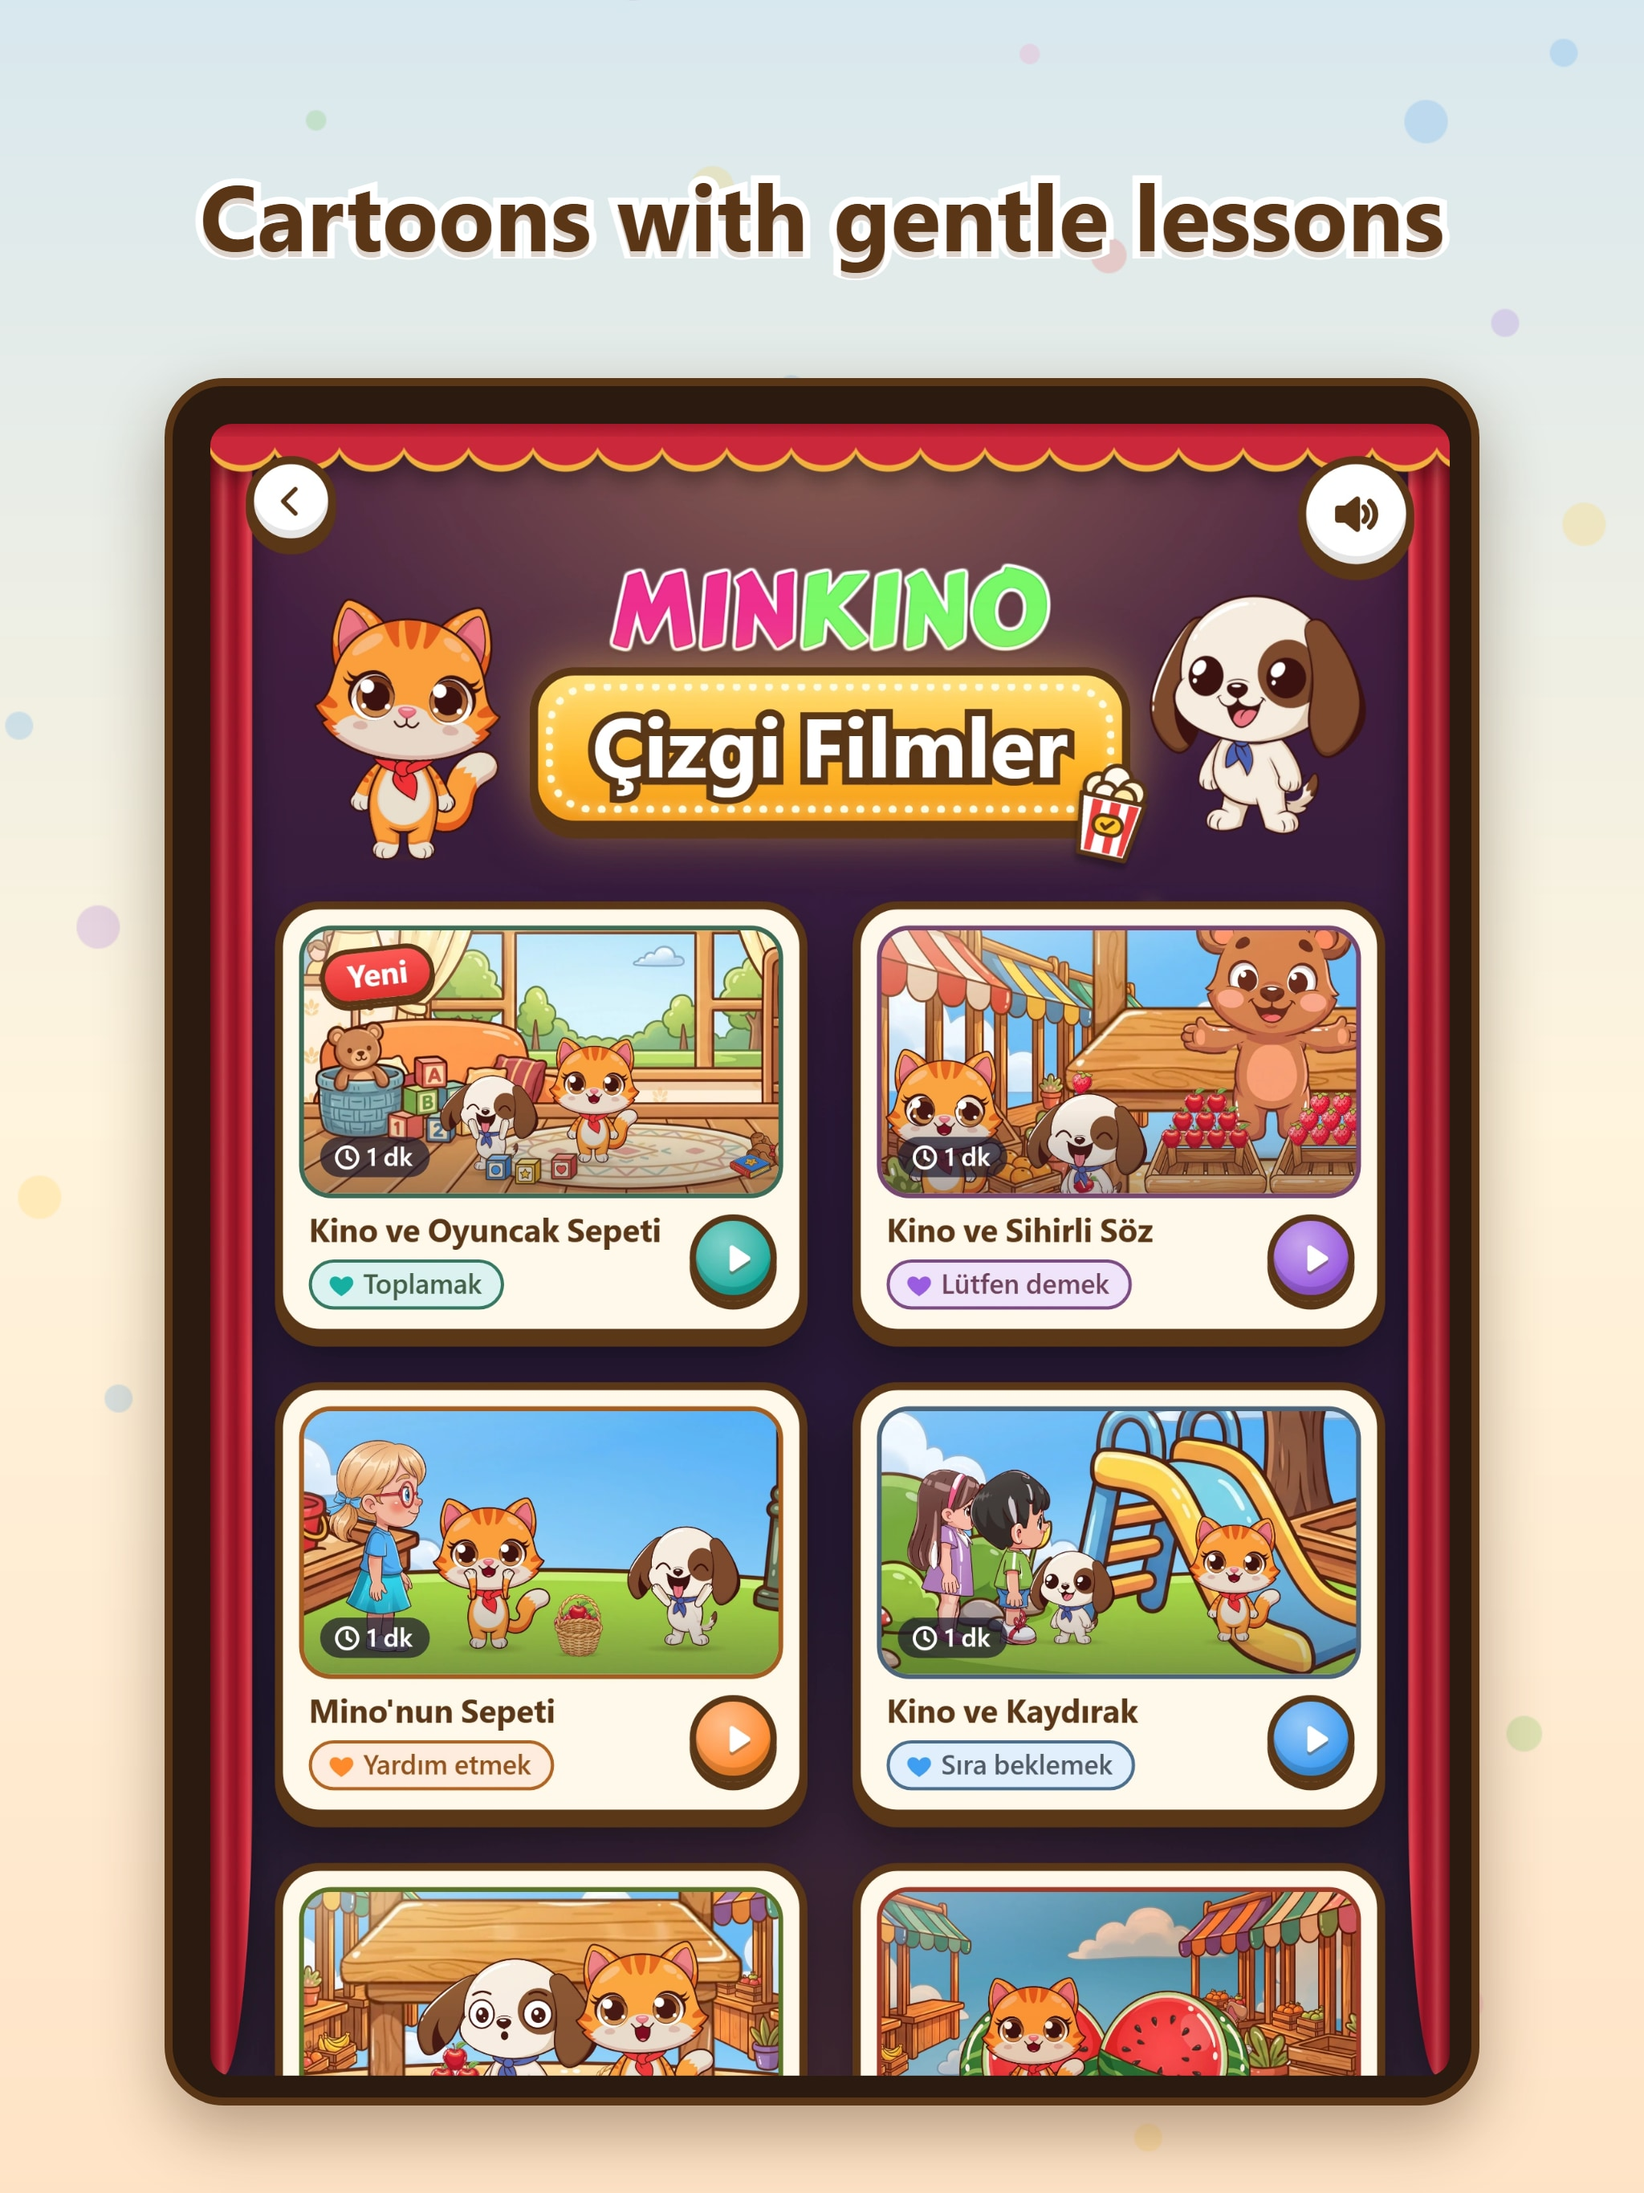
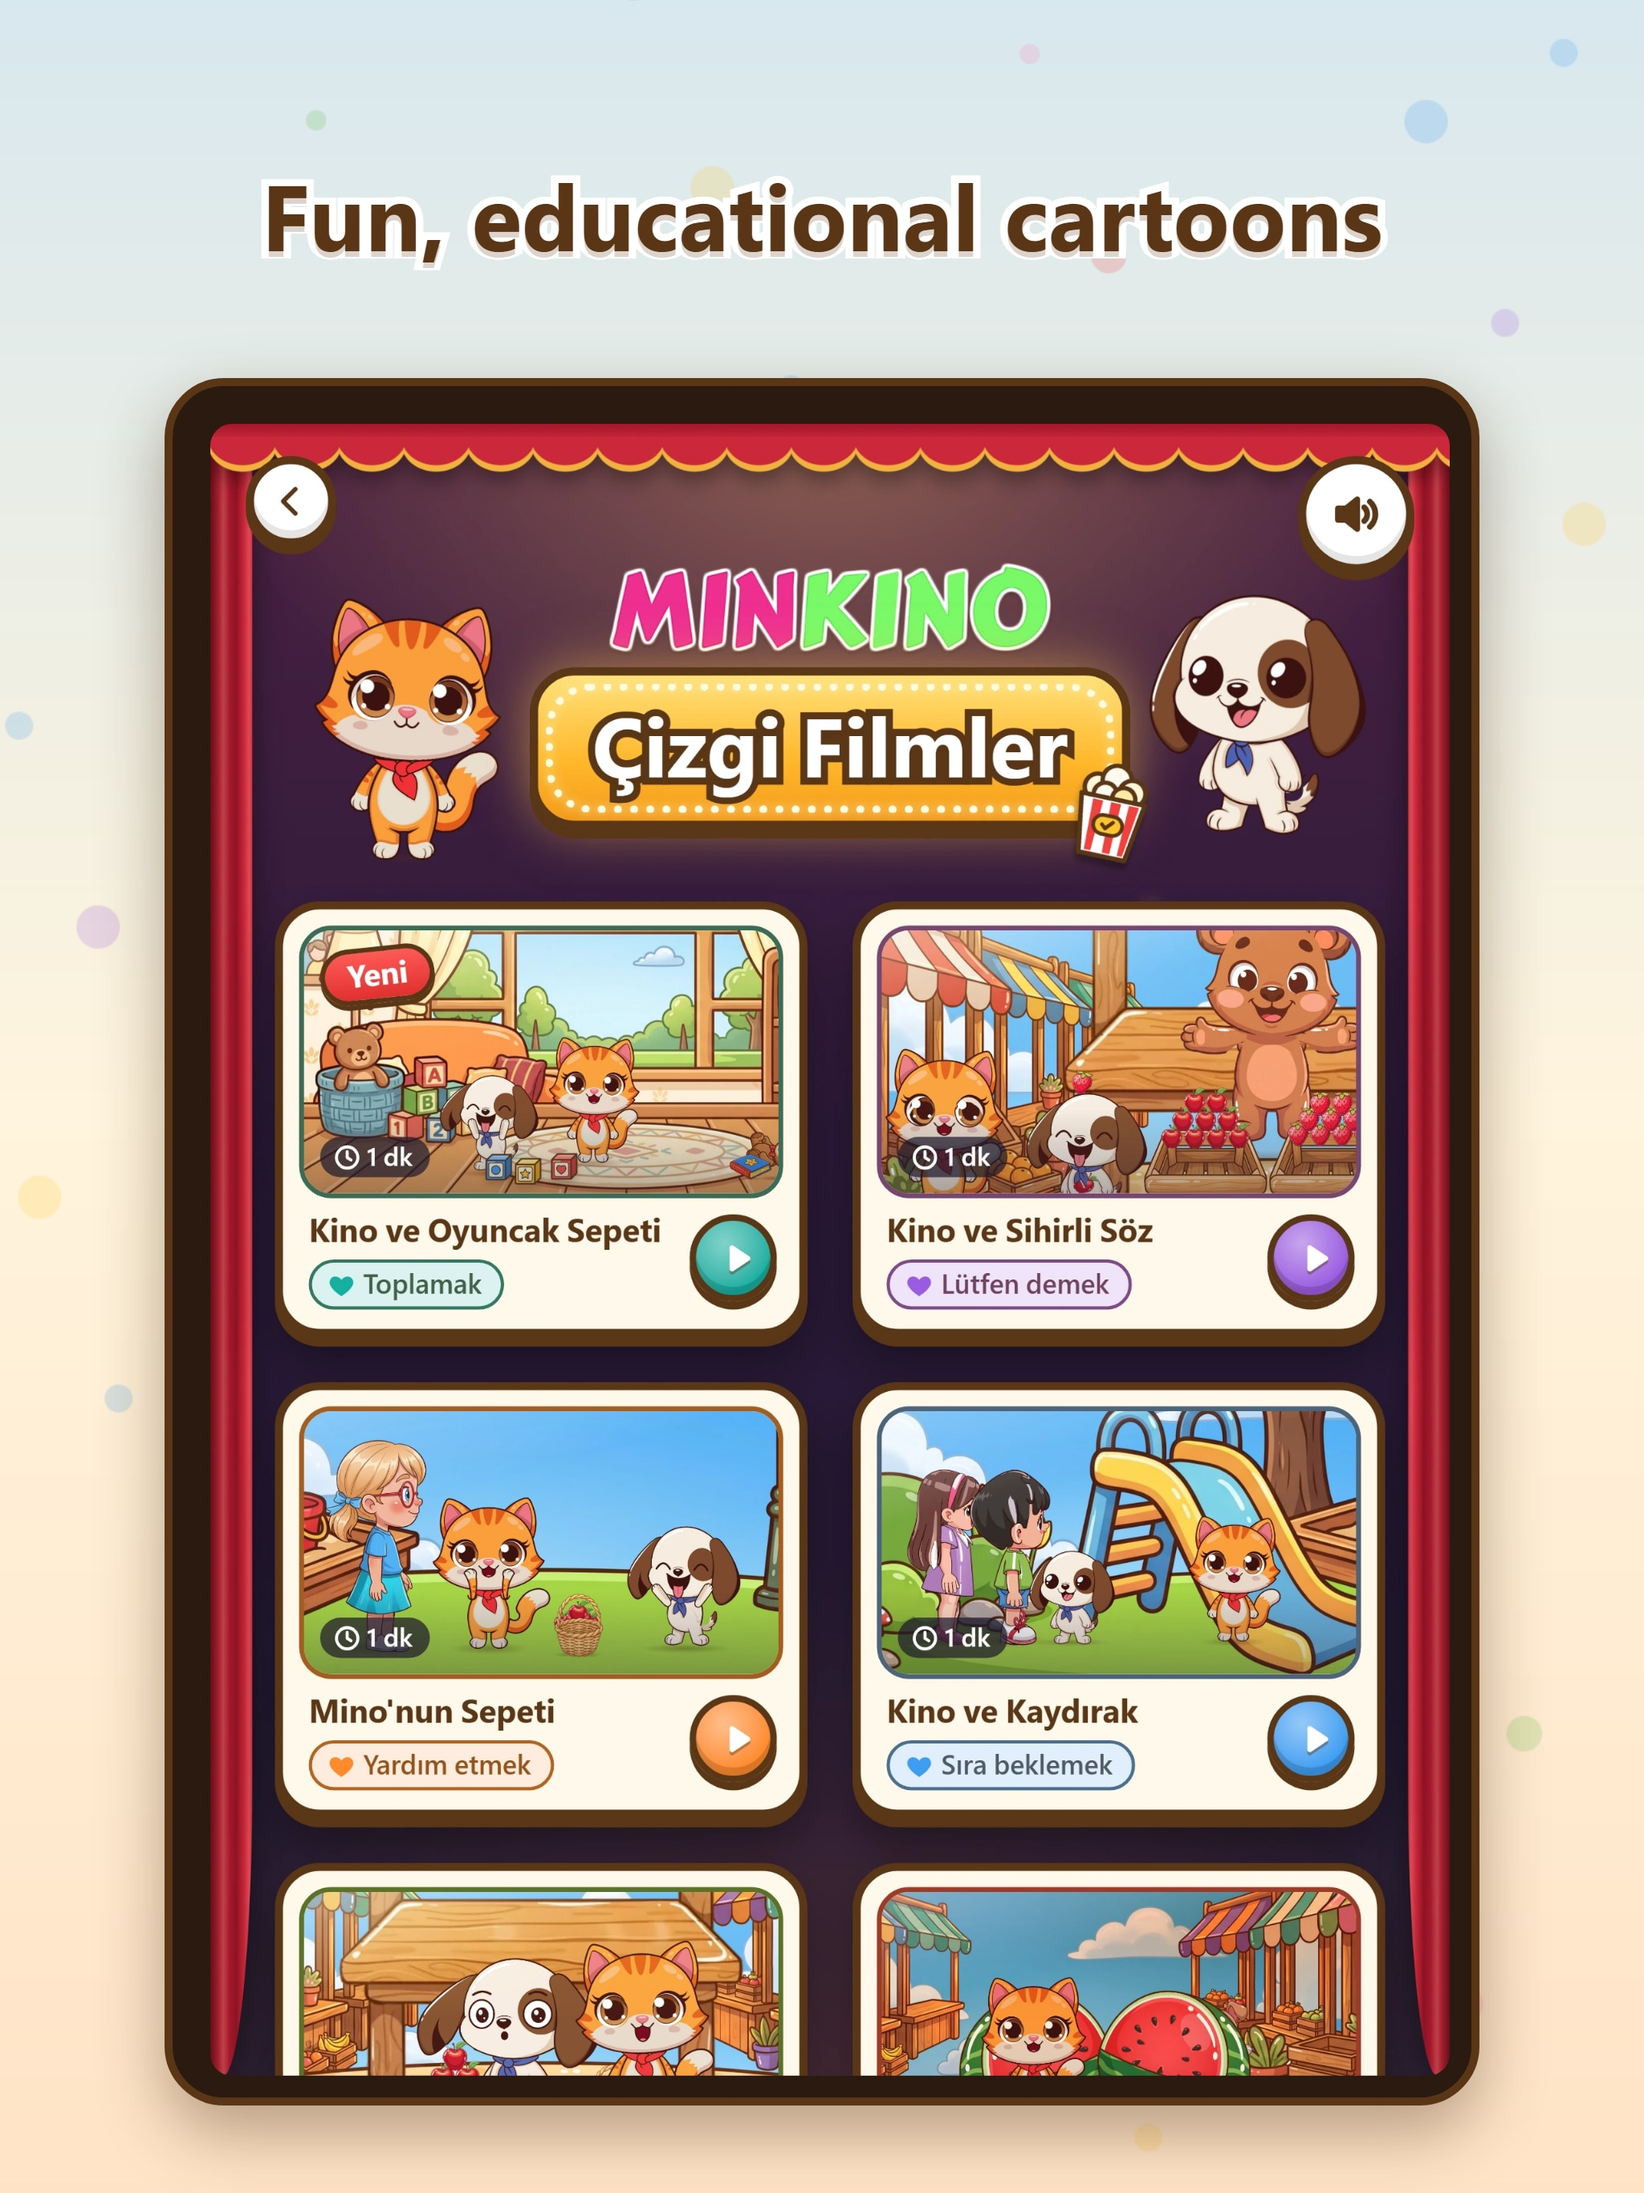
Magaza: 05 basligi 'Eglenceli, egitici cizgi filmler' / 'Fun, educational cartoons'; magaza metinlerinde 'ogut' kelimesi kaldirildi; 05 ekranlari yeniden uretildi

Changed region(s): [[0.125, 0.0622, 0.9062, 0.1245]]

diff --git a/ekip/uygulama/MAGAZA-METINLERI.md b/ekip/uygulama/MAGAZA-METINLERI.md
@@ -44,7 +44,7 @@ Minkino, 3-6 yaş için hazırlanmış Türkçe ve sesli eğitici bir oyun düny
  – Elektrikler Kesildi!: Karanlıktan korkan Kino'ya cesaret ver, battaniyeden çadır kur.
  – Salıncak Kimin?: Parkta sırayla sallanmayı, beklemeyi ve paylaşmayı keşfet.
 
-• **Çizgi Filmler:** Mino ile Kino'nun 6 kısa, eğitici çizgi filmi. Her biri yaklaşık bir dakika ve küçük bir öğütle bitiyor: paylaşmak, özür dilemek, oyundan sonra toplamak…
+• **Çizgi Filmler:** Mino ile Kino'nun 6 kısa, eğitici çizgi filmi. Her biri yaklaşık bir dakika ve küçük, güzel bir dersle bitiyor: paylaşmak, özür dilemek, oyundan sonra toplamak…
 
 • **Çiz Canlansın:** Resmini çiz, boya, çizdiğin balık yüzsün, araba gitsin, kelebek uçsun! Yaşa göre yol takibi, noktaları birleştirme ya da bakarak çizim.
 
@@ -140,7 +140,7 @@ Terms of Use: [link]
 | 2 | Ege'de kukla ya da Banyo'da baloncuk | **Sesinle oyna: üfle, söyle!** | **Play with your voice!** |
 | 3 | Kartlar | **Say, eşleştir, öğren!** | **Count, match and learn!** |
 | 4 | Sesli Macera (Salıncak ya da Elektrik) | **Her oyun bir hikâye** | **Every game tells a story** |
-| 5 | Çizgi film karesi | **Öğüt veren çizgi filmler** | **Cartoons with gentle lessons** |
+| 5 | Çizgi film karesi | **Eğlenceli, eğitici çizgi filmler** | **Fun, educational cartoons** |
 | 6 | Pasta Otobüsü ya da Çiz Canlansın | **Reklamsız ve güvenli** | **No ads. Safe and simple.** |
 | 7 | Okula Hazırım: Sayı Bahçesi, rakam çizme | **Okula hazırlık: sayılar, harfler** | **Ready for school: numbers & letters** |
 
@@ -214,7 +214,7 @@ Terms of Use: [link]
 | **Kartlar** | **Matematik:** sayıları tanıma ve sayma, şekiller, örüntüde sıradakini bulma, farklı olanı seçme (sınıflama). **Türkçe / erken okuryazarlık:** harflerle tanışma (harfin sesi), resim-kelime eşleme, kelime dağarcığı (hayvanlar, meyveler, taşıtlar). **Renkler.** **Bilişsel:** görsel hafıza (Hafıza oyunu), dikkat. | **Math:** recognising numbers and counting, shapes, completing patterns, spotting the odd one out (classifying). **Early literacy:** meeting letters by their sounds, matching pictures to words, vocabulary (animals, fruit, vehicles). **Colours.** **Thinking skills:** visual memory (Memory game), attention. |
 | **Mino'nun Pazarı** | **Matematik:** istenen kadar sayma, birebir eşleme, az-çok. **Renkler** ve meyve-sebze adları. **Sosyal-duygusal:** sırayla hizmet etme, müşteriyi dinleme, paylaşma, sabır. **Türkçe:** sözlü yönergeyi anlama (dinleme). | **Math:** counting out a requested amount, one-to-one matching, more and fewer. **Colours** and names of fruit and vegetables. **Social-emotional:** serving customers in turn, listening, sharing, patience. **Language:** following spoken instructions (listening). |
 | **Sesli Maceralar** (Ege Uyuyor, Banyo, Elektrikler Kesildi, Salıncak Kimin?, Doğum Günü) | **Sosyal-duygusal:** empati (bebeği uyutmak, korkan arkadaşa cesaret vermek), sıra beklemek, paylaşmak, özbakım (banyo). **Müzik ve hareket:** ritim, alkış, yüksek-alçak ses, sessizlik (öz denetim, sabır). **Türkçe:** hikâyeyi dinleme ve takip etme, sözlü yönerge. Her sesli görev dokunarak da oynanır. | **Social-emotional:** empathy (soothing a baby, encouraging a scared friend), waiting your turn, sharing, self-care (bath time). **Music and movement:** rhythm, clapping, loud and soft, silence (self-regulation, patience). **Language:** listening to and following a story, spoken instructions. Every voice task can also be played by touch. |
-| **Çizgi Filmler** | **Sosyal-duygusal ve değerler:** her film tek bir öğütle biter: paylaşmak, özür dilemek, yardım etmek, sıra beklemek, "lütfen" demek, oyundan sonra toplamak. **Türkçe:** dinleme ve anlama. | **Social-emotional and values:** each one-minute cartoon ends with a single gentle lesson: sharing, saying sorry, helping, waiting your turn, saying "please", tidying up after play. **Language:** listening comprehension. |
+| **Çizgi Filmler** | **Sosyal-duygusal ve değerler:** her film tek bir güzel dersle biter: paylaşmak, özür dilemek, yardım etmek, sıra beklemek, "lütfen" demek, oyundan sonra toplamak. **Türkçe:** dinleme ve anlama. | **Social-emotional and values:** each one-minute cartoon ends with a single gentle lesson: sharing, saying sorry, helping, waiting your turn, saying "please", tidying up after play. **Language:** listening comprehension. |
 | **Çiz Canlansın** | **Sanat:** çizme, boyama, renkleri seçme, yaratıcılık. **Hareket / ince motor:** yol takibi (3 yaş), noktaları birleştirme (4), bakarak çizim (5), hafızadan çizim (6); kalem kontrolü ve okuma-yazmaya hazırlık için çizgi çalışması. **Şekiller.** | **Art:** drawing, colouring, choosing colours, creativity. **Fine motor skills:** path tracing (age 3), dot-to-dot (4), copying (5), drawing from memory (6); pencil control and pre-writing line practice. **Shapes.** |
 | **Okula Hazırım!** | **Matematik (Sayı Bahçesi):** birebir eşleme ile sayma, rakam-miktar eşleme, az-çok-eşit, bir fazla / bir eksik, sayı sırası (1-10), sayıyı sese çevirme (alkış), rakam çizme (çizgi çalışması), 5-6 yaşa basit toplama-çıkarma. **Türkçe (Ses Kulesi, Kelime Köprüsü; yapılıyor, yayında "yakında"):** ses farkındalığı (ilk ses, hece, kafiye), harflerle 1. sınıfın ses grubu sırasıyla tanışma (A N E T İ L …), kelime dağarcığı. 1. sınıfa köprü. | **Math (Number Garden):** counting with one-to-one matching, matching numerals to quantities, more / fewer / equal, one more and one less, number order (1-10), turning numbers into claps, tracing numerals, simple adding and taking away for ages 5-6. **Early literacy (Sound Tower, Word Bridge; coming soon):** phonological awareness (first sound, syllables, rhyme), meeting letters in the order Turkish first grade teaches them, vocabulary. A bridge to first grade. |
 | **Dedektif Mino** | **Bilişsel:** gözlem, ipucu toplama, neden-sonuç, akıl yürütme (hangi iz kimin?), sınıflama (pati izi, tüy rengi). **Uzamsal düşünme:** izleri odalar arasında takip etme. **Sosyal-duygusal:** hata yapanı affetmek, özür dilemek. **Türkçe:** hikâyeyi sıralama (4 kareli çizgi roman). | **Thinking skills:** observation, gathering clues, cause and effect, reasoning (whose footprint is this?), classifying (paw prints, fur colours). **Spatial thinking:** following a trail from room to room. **Social-emotional:** forgiving a mistake, saying sorry. **Language:** sequencing a story (4-panel comic). |
